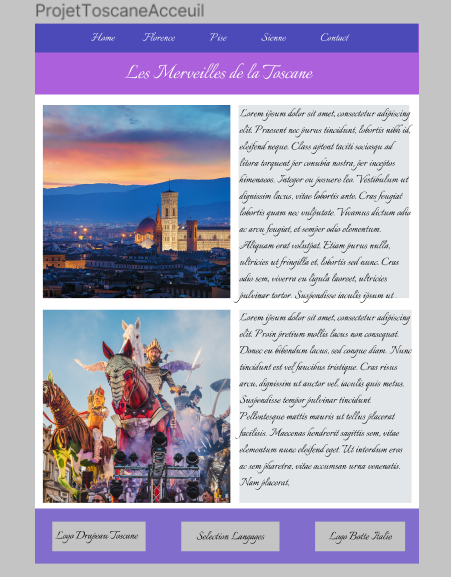
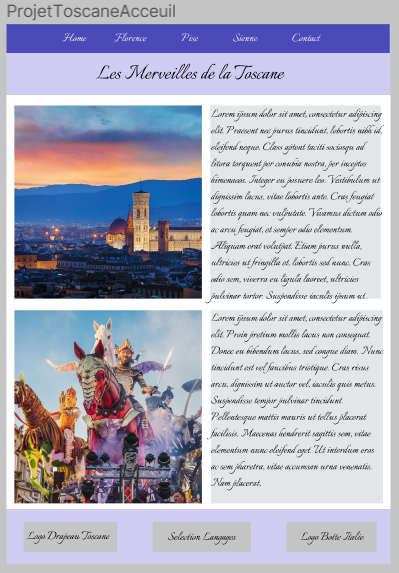
Remplacement maquette

diff --git a/assets/css/global.css b/assets/css/global.css
@@ -11,17 +11,17 @@
 
 header {
     font-family: var(--font-family);
+    opacity: var(--opacity);
 }
 
 .BlocIntro {
     display: flex;
-    opacity: var(--opacity);
-}
+  }
 
 .TitlePage {
-    background-color: #AC60DB;
+    background-color: #CFCBF1;
     font-size: var(--font-size);
-    color: #fff;
+    color: black;
     text-align: center;
     width: 100vw;
     height: 30vh;
@@ -109,6 +109,19 @@ header {
 
 /*Body*/
 
+#background-video {
+  height: 100vh;
+  width: 100vw;
+  object-fit: cover;
+  position: fixed;
+  left: 0;
+  right: 0;
+  top: 0;
+  bottom: 0;
+  z-index: -1;
+  opacity: 0.6;
+  }
+
 body {
     font-family: var(--font-family);
 }
@@ -139,9 +152,7 @@ body {
     text-align: center;
     border-radius: 20px;
     overflow-y: scroll;
-    scrollbar-color: rebeccapurple green;
-    scrollbar-width: thin;
-    margin: auto;
+    margin: 1rem auto;
 }
 
 h2 {
@@ -162,16 +173,14 @@ h3 {
     text-align: center;
     border-radius: 20px;
     overflow-y: scroll;
-    scrollbar-color: rebeccapurple green;
-    scrollbar-width: thin;
-    margin: auto;
+    margin: 1rem auto;
 }
 
 /*Footer*/
 
 footer {
     font-family: var(--font-family);
-    background-color: #AC60DB;
+    background-color: #CFCBF1;
     opacity: var(--opacity);
 }
 
@@ -200,3 +209,4 @@ footer {
     justify-content: center;
 }
 
+/*Media Queries*/

diff --git a/assets/css/index.css b/assets/css/index.css
@@ -1,17 +1,3 @@
-/*Video*/
-#background-video {
-    height: 100vh;
-    width: 100vw;
-    object-fit: cover;
-    position: fixed;
-    left: 0;
-    right: 0;
-    top: 0;
-    bottom: 0;
-    z-index: -1;
-    opacity: 0.6;
-    }
-
     .Night {
         object-fit: cover;
         border-radius: 20px;

diff --git a/assets/css/pisa.css b/assets/css/pisa.css
@@ -1,16 +1,3 @@
-#background-video {
-    height: 100vh;
-    width: 100vw;
-    object-fit: cover;
-    position: fixed;
-    left: 0;
-    right: 0;
-    top: 0;
-    bottom: 0;
-    z-index: -1;
-    opacity: 0.6;
-    }
-    
     .Pisa {
         object-fit: cover;
         border-radius: 20px;

diff --git a/assets/css/contact.css b/assets/css/contact.css
@@ -1,16 +1,3 @@
-#background-video {
-    height: 100vh;
-    width: 100vw;
-    object-fit: cover;
-    position: fixed;
-    left: 0;
-    right: 0;
-    top: 0;
-    bottom: 0;
-    z-index: -1;
-    opacity: 0.6;
-    }
-
     .Vecchio {
         object-fit: cover;
         border-radius: 20px;

diff --git a/assets/css/firenze.css b/assets/css/firenze.css
@@ -1,16 +1,3 @@
-#background-video {
-    height: 100vh;
-    width: 100vw;
-    object-fit: cover;
-    position: fixed;
-    left: 0;
-    right: 0;
-    top: 0;
-    bottom: 0;
-    z-index: -1;
-    opacity: 0.6;
-    }
-
     .Duomo {
         object-fit: cover;
         border-radius: 20px;

diff --git a/assets/css/sienna.css b/assets/css/sienna.css
@@ -1,16 +1,3 @@
-#background-video {
-    height: 100vh;
-    width: 100vw;
-    object-fit: cover;
-    position: fixed;
-    left: 0;
-    right: 0;
-    top: 0;
-    bottom: 0;
-    z-index: -1;
-    opacity: 0.6;
-    }
-
     .Campo {
         object-fit: cover;
         border-radius: 20px;
